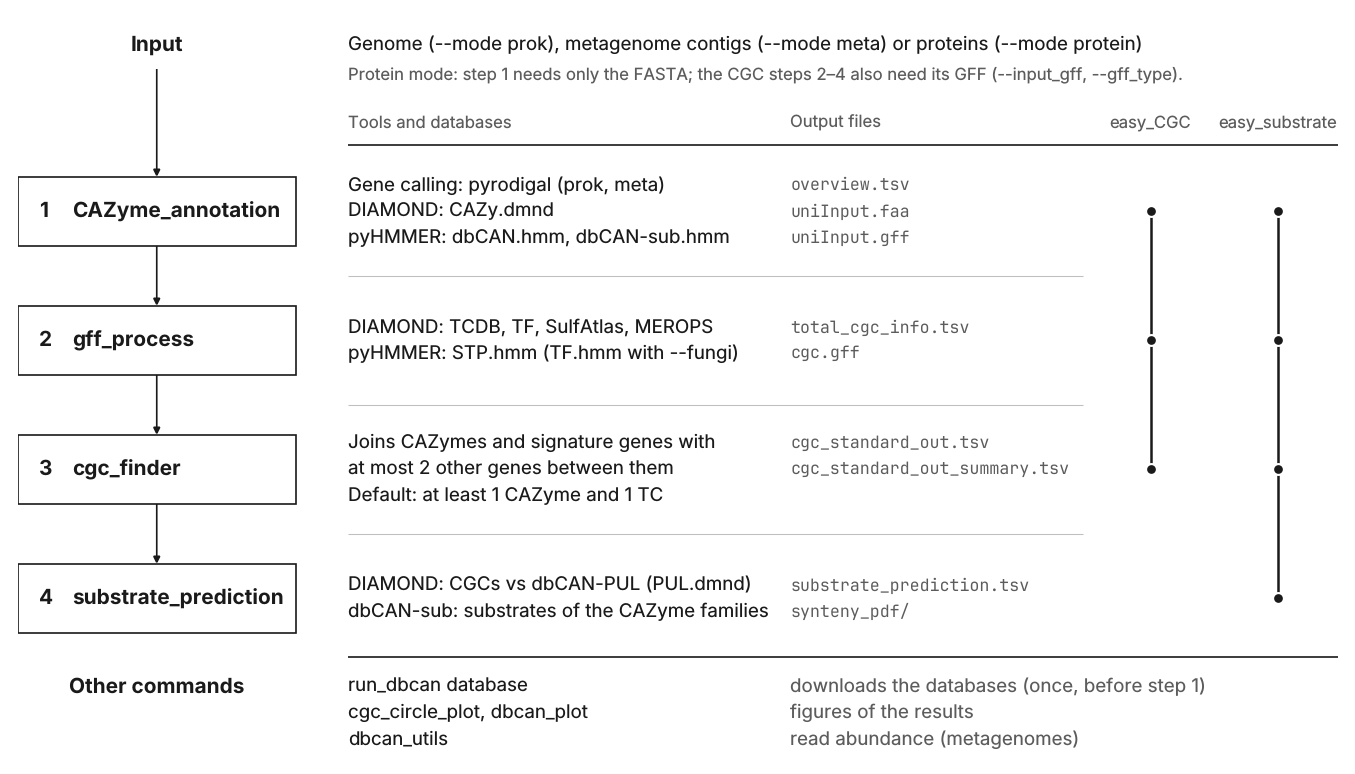
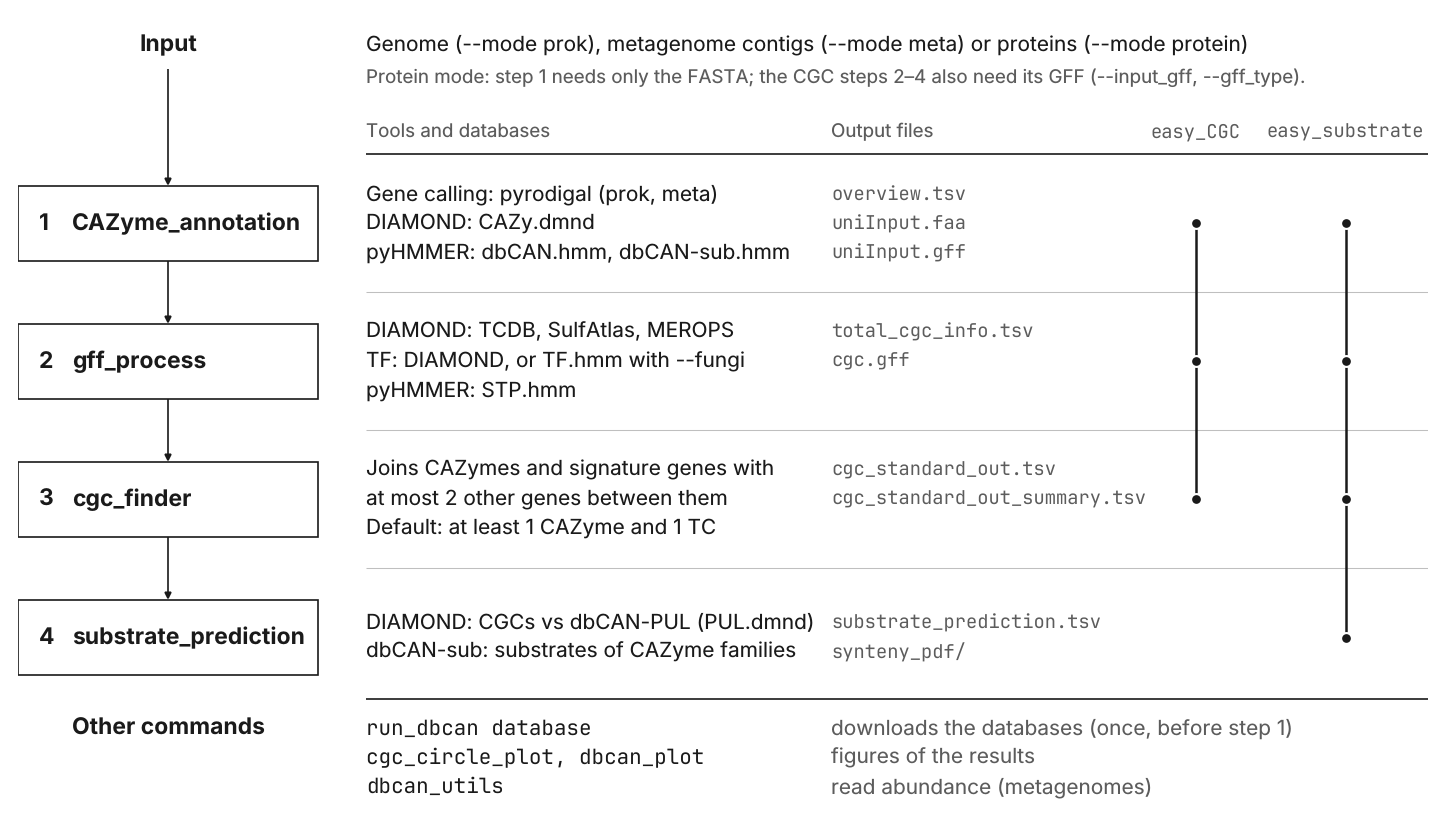
docs(figures): fix review notes on the schematic figures
Rebased on wip/finallabel (af6402d), so the cgc_rules panel B and its caption describe code that is on this
branch. One term throughout: "final Gene Type" (panel B title, caption, CGC_annotation bullet).

- _style: text sizes 11/10/9 pt (was 10/9/8) for ~800 px content width.
- cgc_rules: all row notes (bracket labels included) in one size; panel B title "Each gene counts once, by its
  final Gene Type" and shorter text; panel C names the full-length sources (TC, TF DIAMOND, sulfatase);
  cgc.gff in monospace.
- pipeline_overview: "TF: DIAMOND, or TF.hmm with --fungi" (--fungi replaces TF DIAMOND); row separators run
  the full width like the header line; commands (other commands, easy_* heads) in monospace.
- protocol_flow: run_dbcan module shows P5/P6/P7 (choose one) with their files; every command carries its
  protocol step; the steps of the shorter module are spread over the row; the "S = sample" footnote is
  dropped (the caption says it). Caption mentions the step numbers.

Claude-Session: https://claude.ai/code/session_017udboCXxdwBLEvexLdFt5X

diff --git a/docs/source/_static/img/figures/src/protocol_flow.py b/docs/source/_static/img/figures/src/protocol_flow.py
@@ -1,75 +1,87 @@
 """Draw protocol_flow.png: the four modules of the metagenomics protocol (2 x 2 grid), the command of each
-step and the files it writes (used by docs/source/metagenomics_pipeline/run_from_raw_reads.rst).
+step, its protocol step number and the files it writes (used by
+docs/source/metagenomics_pipeline/run_from_raw_reads.rst; S = sample, explained in the caption there).
 
 Same style as pipeline_overview.png (see _style.py). Commands and file names are monospace; one file per line.
+The two modules of a row share the row height; the steps of the shorter module are spread over it.
 
 Run from the repository root:  python docs/source/_static/img/figures/src/protocol_flow.py
 """
 import _style as st
 
-# module title, protocol steps, [(command, [output files])]; an output starting with "~" is prose, not a file
+# module title, note at the right of the title, [(command, protocol step, [output files])];
+# an output starting with "~" is prose, not a file
 MODULES = [
-    ("Reads to genes", "P1–P4", [
-        ("kraken2, trim_galore", ["S_1_val_1.fq.gz", "S_2_val_2.fq.gz"]),
-        ("megahit", ["megahit_S/S.contigs.fa"]),
-        ("pyrodigal -p meta", ["S.faa", "S.gff"]),
+    ("Reads to genes", "", [
+        ("kraken2, trim_galore", "P1–P2", ["S_1_val_1.fq.gz", "S_2_val_2.fq.gz"]),
+        ("megahit", "P3", ["megahit_S/S.contigs.fa"]),
+        ("pyrodigal -p meta", "P4", ["S.faa", "S.gff"]),
     ]),
-    ("run_dbcan", "P5–P7", [
-        ("run_dbcan easy_substrate", ["S.dbCAN/overview.tsv", "S.dbCAN/cgc.gff", "S.dbCAN/cgc_standard_out.tsv",
-                                      "S.dbCAN/substrate_prediction.tsv", "S.dbCAN/synteny_pdf/"]),
+    ("run_dbcan", "choose one", [
+        ("run_dbcan CAZyme_annotation", "P5", ["S.CAZyme/overview.tsv"]),
+        ("run_dbcan easy_CGC", "P6", ["S.dbCAN/cgc.gff", "S.dbCAN/cgc_standard_out.tsv"]),
+        ("run_dbcan easy_substrate", "P7", ["S.dbCAN/substrate_prediction.tsv", "S.dbCAN/synteny_pdf/"]),
     ]),
-    ("Abundance", "P8–P12", [
-        ("bwa mem | samtools sort", ["S.bam", "S.bam.bai"]),
-        ("dbcan_utils cal_coverage", ["S.depth.txt"]),
-        ("samtools depth -r", ["S.cgc.depth.txt"]),
-        ("dbcan_utils *_abund", ["S_abund/", "~7 abundance tables"]),
+    ("Abundance", "", [
+        ("bwa mem | samtools sort", "P8–P9", ["S.bam", "S.bam.bai"]),
+        ("dbcan_utils cal_coverage", "P10", ["S.depth.txt"]),
+        ("samtools depth -r", "P11", ["S.cgc.depth.txt"]),
+        ("dbcan_utils *_abund", "P12", ["S_abund/", "~7 abundance tables"]),
     ]),
-    ("Plots", "P13–P15", [
-        ("dbcan_plot heatmap_plot", ["substrate_heatmap.pdf"]),
-        ("dbcan_plot bar_plot", ["fam_abund.pdf", "subfam_abund.pdf", "EC_abund.pdf"]),
-        ("dbcan_plot CGC_*_plot", ["~CGC map, coverage and synteny PDFs"]),
+    ("Plots", "", [
+        ("dbcan_plot heatmap_plot", "P13", ["substrate_heatmap.pdf"]),
+        ("dbcan_plot bar_plot", "P14", ["fam_abund.pdf", "subfam_abund.pdf", "EC_abund.pdf"]),
+        ("dbcan_plot CGC_*_plot", "P15", ["~CGC map, coverage and synteny PDFs"]),
     ]),
 ]
 
-W = 6.9
+W = 7.2
 COL_GAP, ROW_GAP = 0.42, 0.5
 COL_W = (W - COL_GAP) / 2
-HEAD_H = 0.36             # module title band (inside the frame, above a light rule)
-CMD, FILE, GAP = 0.19, 0.165, 0.09
-PAD = 0.14
+HEAD_H = 0.4              # module title band (inside the frame, above a light rule)
+CMD, FILE, GAP = 0.21, 0.18, 0.12
+PAD = 0.15
+
+
+def content_height(steps):
+    return sum(CMD + FILE * len(files) for _, _, files in steps)
 
 
 def body_height(steps):
-    return sum(CMD + FILE * len(files) + GAP for _, files in steps) - GAP + 2 * PAD
+    return content_height(steps) + GAP * (len(steps) - 1) + 2 * PAD
 
 
 def draw():
     acc = st.accent()
     row_h = [HEAD_H + max(body_height(MODULES[i][2]), body_height(MODULES[i + 1][2])) for i in (0, 2)]
     tops = [0.0, row_h[0] + ROW_GAP]
-    H = tops[1] + row_h[1] + 0.62
+    H = tops[1] + row_h[1] + 0.56
     fig, ax = st.canvas(W, H)
 
     frames = []
-    for i, (title, psteps, steps) in enumerate(MODULES):
+    for i, (title, note, steps) in enumerate(MODULES):
         r, c = divmod(i, 2)
         x0, y0, h = c * (COL_W + COL_GAP), tops[r], row_h[r]
         frames.append((x0, y0, h))
         st.box(ax, x0, y0, COL_W, h)
         st.text(ax, x0 + PAD, y0 + HEAD_H / 2, str(i + 1), size=st.L, weight="bold", color=acc)
-        st.text(ax, x0 + PAD + 0.2, y0 + HEAD_H / 2, title, size=st.L, weight="bold")
-        st.text(ax, x0 + COL_W - PAD, y0 + HEAD_H / 2, psteps, size=st.S, color=st.GREY, ha="right")
+        st.text(ax, x0 + PAD + 0.22, y0 + HEAD_H / 2, title, size=st.L, weight="bold")
+        if note:
+            st.text(ax, x0 + COL_W - PAD, y0 + HEAD_H / 2, note, size=st.S, color=st.GREY, ha="right")
         st.hline(ax, x0 + PAD, x0 + COL_W - PAD, y0 + HEAD_H, lw=0.5)
+        # spread the steps over the body height of the row
+        gap = (h - HEAD_H - 2 * PAD - content_height(steps)) / (len(steps) - 1)
         y = y0 + HEAD_H + PAD
-        for cmd, files in steps:
+        for cmd, pstep, files in steps:
             st.text(ax, x0 + PAD, y + CMD / 2, cmd, mono=True)
+            st.text(ax, x0 + COL_W - PAD, y + CMD / 2, pstep, size=st.S, color=st.GREY, ha="right")
             y += CMD
             for f in files:
                 prose = f.startswith("~")
                 st.text(ax, x0 + PAD + 0.2, y + FILE / 2, f.lstrip("~"), size=st.S, color=st.GREY,
                         mono=not prose)
                 y += FILE
-            y += GAP
+            y += gap
 
     # 1 -> 2 and 3 -> 4 at the title band; 2 -> 3 as an elbow through the gap between the rows
     for a, b in ((0, 1), (2, 3)):
@@ -83,9 +95,9 @@ def draw():
     ax.plot([xa, xa, xb], [y2 + h2, ym, ym], color=acc, lw=st.LW, solid_joinstyle="miter")
     st.arrow(ax, (xb, ym), (xb, y3), color=acc, head=8)
 
-    st.text(ax, 0, H - 0.3, "S = sample (e.g. Wet2014). Module 3 maps the clean reads of module 1 to the contigs "
-            "of the same sample", size=st.S, color=st.GREY)
-    st.runs(ax, 0, H - 0.3 + FILE, [("and counts the reads per gene of ", {}), ("S.dbCAN/cgc.gff", {"mono": True}),
+    st.text(ax, 0, H - 0.26, "Module 3 maps the clean reads of module 1 to the contigs of the same sample",
+            size=st.S, color=st.GREY)
+    st.runs(ax, 0, H - 0.26 + FILE, [("and counts the reads per gene of ", {}), ("S.dbCAN/cgc.gff", {"mono": True}),
                                      (".", {})], size=st.S, color=st.GREY)
     return fig
 

diff --git a/docs/source/_static/img/figures/src/cgc_rules.py b/docs/source/_static/img/figures/src/cgc_rules.py
@@ -1,5 +1,5 @@
 """Draw cgc_rules.png: how cgc_finder joins signature genes into CGCs (default settings), that each gene counts
-once by its final label, and how gff_process chooses the labels.
+once, by its final Gene Type, and how gff_process chooses the labels.
 
 Same style as pipeline_overview.png (see _style.py). The gene arrows use the gene-type colours of the run_dbcan
 plots (CGC_FEATURE_COLORS); everything else is neutral.
@@ -38,7 +38,8 @@ def bracket(ax, xa, xb, y, label, ok=True):
     color = st.INK if ok else st.GREY
     ax.plot([xa, xa, xb, xb], [y - 0.06, y, y, y - 0.06], color=color, lw=st.LW,
             linestyle="-" if ok else (0, (3, 2)), solid_joinstyle="miter")
-    st.text(ax, (xa + xb) / 2, y + 0.16, label, color=color, ha="center", weight="bold" if ok else "normal")
+    st.text(ax, (xa + xb) / 2, y + 0.17, label, size=st.S, color=color, ha="center",
+            weight="bold" if ok else "normal")
 
 
 def panel_title(ax, x, y, letter, title):
@@ -63,68 +64,69 @@ def legend(ax, x_right, y):
 
 
 def draw():
-    H = 4.75
+    H = 5.1
     fig, ax = st.canvas(W, H)
     N = ("Other",)
+    note = {"size": st.S, "color": st.GREY, "ha": "center"}   # notes under a gene row, as bracket()
 
     # ---- A: joining rule
     panel_title(ax, 0, 0.1, "A", "Joining rule (defaults)")
     legend(ax, W, 0.1)
-    st.text(ax, 0.24, 0.38, "Signature genes are joined while at most 2 other genes lie between them "
+    st.text(ax, 0.24, 0.4, "Signature genes are joined while at most 2 other genes lie between them "
             "(--num_null_gene 2).")
-    st.text(ax, 0.24, 0.38 + 0.18, "A CGC needs at least 1 CAZyme and 1 TC (--additional_genes TC). "
+    st.text(ax, 0.24, 0.4 + 0.2, "A CGC needs at least 1 CAZyme and 1 TC (--additional_genes TC). "
             "A TF gene counts as a null gene by default.")
-    step, x0, ya = 0.62, 0.32, 1.1
+    step, x0, ya = 0.62, 0.32, 1.18
     gene_row(ax, x0, ya, [("CAZyme", "GH13"), N, ("TC", "TC"), N, N, ("CAZyme", "GH31"), N, N, N,
                           ("CAZyme", "GH2"), ("CAZyme", "GH42"), N, ("TF", "TF")], step)
     gx = lambda k: x0 + k * step  # noqa: E731
     yb = ya + 0.22
     bracket(ax, gx(0), gx(5) + GENE_W, yb, "CGC: GH13 + TC + GH31")
-    st.text(ax, (gx(6) + gx(8) + GENE_W) / 2, yb + 0.16, "3 null genes: cluster ends", size=st.S,
-            color=st.GREY, ha="center")
+    st.text(ax, (gx(6) + gx(8) + GENE_W) / 2, yb + 0.17, "3 null genes: cluster ends", **note)
     bracket(ax, gx(9), gx(10) + GENE_W, yb, "Not a CGC: no TC", ok=False)
-    st.text(ax, gx(12) + GENE_W / 2, yb + 0.16, "TF: null gene", size=st.S, color=st.GREY, ha="center")
+    st.text(ax, gx(12) + GENE_W / 2, yb + 0.17, "TF: null gene", **note)
 
-    st.hline(ax, 0, W, 1.82, lw=0.5)
+    y_rule = 1.94
+    st.hline(ax, 0, W, y_rule, lw=0.5)
 
     # ---- B: each gene counts once
-    yB = 2.08
-    panel_title(ax, 0, yB, "B", "Each gene counts once, by its final label")
-    st.text(ax, 0.24, yB + 0.28, "With --additional_genes STP: a gene labelled GH13 + STP domain is a")
-    st.text(ax, 0.24, yB + 0.46, "CAZyme only, so the CGC needs a separate STP gene.")
+    yB = y_rule + 0.28
+    panel_title(ax, 0, yB, "B", "Each gene counts once, by its final Gene Type")
+    st.text(ax, 0.24, yB + 0.3, "With --additional_genes STP, a GH13 gene with an STP domain")
+    st.text(ax, 0.24, yB + 0.5, "has Gene Type CAZyme: it does not fill the STP role.")
     stepB, xB = 0.9, 0.32
     hit = ("CAZyme", "GH13 + STP", "STP")
     for k, (genes, (ia, ib), label, ok) in enumerate([
         ([hit, ("CAZyme", "GH31"), N], (0, 1), "Not a CGC: no STP gene", False),
         ([hit, ("CAZyme", "GH31"), N, ("STP", "STP")], (0, 3), "CGC: GH13 + GH31 + STP", True),
     ]):
-        y = yB + 1.02 + k * 0.92
+        y = yB + 1.1 + k * 0.98
         gene_row(ax, xB, y, genes, stepB)
         bracket(ax, xB + ia * stepB, xB + ib * stepB + GENE_W, y + 0.22, label, ok=ok)
 
     # ---- C: how labels are chosen
     xC = 4.75
-    st.vline(ax, xC - 0.3, 2.0, H - 0.05, color=st.RULE, lw=0.5)
+    st.vline(ax, xC - 0.3, y_rule + 0.18, H - 0.05, color=st.RULE, lw=0.5)
     panel_title(ax, xC, yB, "C", "How labels are chosen (gff_process)")
     xr = xC + 2.55              # second column of the table
-    t0 = yB + 0.34
+    t0 = yB + 0.36
     st.hline(ax, xC, W, t0, color=st.INK)
-    st.text(ax, xC, t0 + 0.15, "Hits on one gene", size=st.S, color=st.GREY)
-    st.text(ax, xr, t0 + 0.15, "Label in cgc.gff", size=st.S, color=st.GREY)
-    st.hline(ax, xC, W, t0 + 0.3, lw=0.5)
+    st.text(ax, xC, t0 + 0.17, "Hits on one gene", size=st.S, color=st.GREY)
+    st.runs(ax, xr, t0 + 0.17, [("Label in ", {}), ("cgc.gff", {"mono": True})], size=st.S, color=st.GREY)
+    st.hline(ax, xC, W, t0 + 0.34, lw=0.5)
     rows = [(["CAZyme (#ofTools ≥ 2) and a TC,", "TF (DIAMOND) or sulfatase hit"], "CAZyme only"),
-            (["Not a CAZyme; several", "full-length hits"], "Best bit score only")]
-    y = t0 + 0.48
+            (["Not a CAZyme; several full-length", "hits (TC, TF DIAMOND, sulfatase)"], "Best bit score only")]
+    y = t0 + 0.53
     for left, right in rows:
         for k, s in enumerate(left):
-            st.text(ax, xC, y + k * 0.18, s)
+            st.text(ax, xC, y + k * 0.2, s)
         st.text(ax, xr, y, right, weight="bold")
-        y += 0.18 * len(left) + 0.14
-    st.hline(ax, xC, W, y - 0.05, color=st.INK)
-    y += 0.2
-    st.text(ax, xC, y, "Gene Type column: one type per gene, by priority", size=st.M)
-    st.text(ax, xC, y + 0.19, "CAZyme > TC > TF > STP > Sulfatase > Peptidase", size=st.M, weight="bold")
-    st.runs(ax, xC, y + 0.48, [("All hits stay in ", {}), ("total_cgc_info.tsv", MONO), (".", {})],
+        y += 0.2 * len(left) + 0.16
+    st.hline(ax, xC, W, y - 0.06, color=st.INK)
+    y += 0.22
+    st.text(ax, xC, y, "Gene Type column: one type per gene, by priority")
+    st.text(ax, xC, y + 0.21, "CAZyme > TC > TF > STP > Sulfatase > Peptidase", weight="bold")
+    st.runs(ax, xC, y + 0.52, [("All hits stay in ", {}), ("total_cgc_info.tsv", MONO), (".", {})],
             size=st.S, color=st.GREY)
     return fig
 

diff --git a/docs/source/_static/img/figures/src/pipeline_overview.py b/docs/source/_static/img/figures/src/pipeline_overview.py
@@ -13,14 +13,14 @@ STEPS = [
      ["Gene calling: pyrodigal (prok, meta)", "DIAMOND: CAZy.dmnd", "pyHMMER: dbCAN.hmm, dbCAN-sub.hmm"],
      ["overview.tsv", "uniInput.faa", "uniInput.gff"]),
     ("gff_process",
-     ["DIAMOND: TCDB, TF, SulfAtlas, MEROPS", "pyHMMER: STP.hmm (TF.hmm with --fungi)"],
+     ["DIAMOND: TCDB, SulfAtlas, MEROPS", "TF: DIAMOND, or TF.hmm with --fungi", "pyHMMER: STP.hmm"],
      ["total_cgc_info.tsv", "cgc.gff"]),
     ("cgc_finder",
      ["Joins CAZymes and signature genes with", "at most 2 other genes between them",
       "Default: at least 1 CAZyme and 1 TC"],
      ["cgc_standard_out.tsv", "cgc_standard_out_summary.tsv"]),
     ("substrate_prediction",
-     ["DIAMOND: CGCs vs dbCAN-PUL (PUL.dmnd)", "dbCAN-sub: substrates of the CAZyme families"],
+     ["DIAMOND: CGCs vs dbCAN-PUL (PUL.dmnd)", "dbCAN-sub: substrates of CAZyme families"],
      ["substrate_prediction.tsv", "synteny_pdf/"]),
 ]
 OTHER = [("run_dbcan database", "downloads the databases (once, before step 1)"),
@@ -28,18 +28,18 @@ OTHER = [("run_dbcan database", "downloads the databases (once, before step 1)")
          ("dbcan_utils", "read abundance (metagenomes)")]
 WRAPPERS = [("easy_CGC", 3), ("easy_substrate", 4)]
 
-W = 8.8
-X_BOX, BOX_W, BOX_H = 0.0, 1.85, 0.46
-X_TOOLS, X_FILES = 2.2, 5.15
-X_WRAP = [7.55, 8.4]
-LINE = 0.175          # line pitch of 9 pt text
-ROW = 0.86            # row pitch
+W = 9.4
+X_BOX, BOX_W, BOX_H = 0.0, 2.0, 0.5
+X_TOOLS, X_FILES = 2.32, 5.42
+X_WRAP = [7.85, 8.85]
+LINE = 0.195          # line pitch of 10 pt text
+ROW = 0.92            # row pitch
 
 
 def draw(use_accent):
     acc = st.accent(use_accent)
     y_input = 0.12
-    y_head = 0.70
+    y_head = 0.76
     y0 = y_head + 0.36                     # top of the first step box
     y_end = y0 + 3 * ROW + BOX_H           # bottom of the last step box
     H = y_end + 0.82
@@ -56,9 +56,9 @@ def draw(use_accent):
     st.arrow(ax, (xc, y_input + 0.22), (xc, y0), color=acc)
 
     # column heads
-    for x, t, ha in ((X_TOOLS, "Tools and databases", "left"), (X_FILES, "Output files", "left"),
-                     (X_WRAP[0], "easy_CGC", "center"), (X_WRAP[1], "easy_substrate", "center")):
-        st.text(ax, x, y_head, t, size=st.S, color=st.GREY, ha=ha)
+    for x, t, ha, mono in ((X_TOOLS, "Tools and databases", "left", False), (X_FILES, "Output files", "left", False),
+                           (X_WRAP[0], "easy_CGC", "center", True), (X_WRAP[1], "easy_substrate", "center", True)):
+        st.text(ax, x, y_head, t, size=st.S, color=st.GREY, ha=ha, mono=mono)
     st.hline(ax, X_TOOLS, W, y_head + 0.15, color=st.INK)
 
     for i, (name, tools, files) in enumerate(STEPS):
@@ -75,7 +75,7 @@ def draw(use_accent):
         for k, f in enumerate(files):
             st.text(ax, X_FILES, block_top + k * LINE, f, mono=True, color=st.GREY, size=st.S)
         if i < 3:
-            st.hline(ax, X_TOOLS, X_WRAP[0] - 0.45, top + BOX_H + (ROW - BOX_H) / 2, lw=0.5)
+            st.hline(ax, X_TOOLS, W, top + BOX_H + (ROW - BOX_H) / 2, lw=0.5)
 
     # wrappers: a line through the steps each one runs
     for x, (_, n) in zip(X_WRAP, WRAPPERS):
@@ -89,7 +89,7 @@ def draw(use_accent):
     st.hline(ax, X_TOOLS, W, y_foot - 0.2, color=st.INK)
     st.text(ax, xc, y_foot, "Other commands", size=st.L, weight="bold", ha="center")
     for k, (cmd, what) in enumerate(OTHER):
-        st.text(ax, X_TOOLS, y_foot + k * LINE, cmd)
+        st.text(ax, X_TOOLS, y_foot + k * LINE, cmd, mono=True)
         st.text(ax, X_FILES, y_foot + k * LINE, what, color=st.GREY)
     return fig
 

diff --git a/docs/source/_static/img/figures/src/_style.py b/docs/source/_static/img/figures/src/_style.py
@@ -37,8 +37,9 @@ plt.rcParams.update({
     "savefig.facecolor": "white",
 })
 
-# text sizes (pt): titles / step names, body, notes and file names
-L, M, S = 10, 9, 8
+# text sizes (pt): titles / step names, body, notes and file names. The full-width figures are ~1350 px wide and
+# shown at ~800 px in the docs, so 9 pt comes out at ~11 px there.
+L, M, S = 11, 10, 9
 
 INK = "#1A1A1A"        # text and structure lines
 GREY = "#5C5C5C"       # secondary text, file names (contrast 6.7:1 on white)

diff --git a/docs/source/metagenomics_pipeline/run_from_raw_reads.rst b/docs/source/metagenomics_pipeline/run_from_raw_reads.rst
@@ -13,7 +13,8 @@ datasets and routes below only list what differs and link back to the steps here
    :target: ../_static/img/figures/protocol_flow.png
    :alt: The four modules of the protocol, their commands and output files
 
-   The four modules, the command of each step and the files it writes (``S`` = sample name; click to enlarge).
+   The four modules, the command of each protocol step (P1-P15) and the files it writes (``S`` = sample name; click
+   to enlarge).
 
 .. list-table:: Example datasets and routes
    :header-rows: 1
